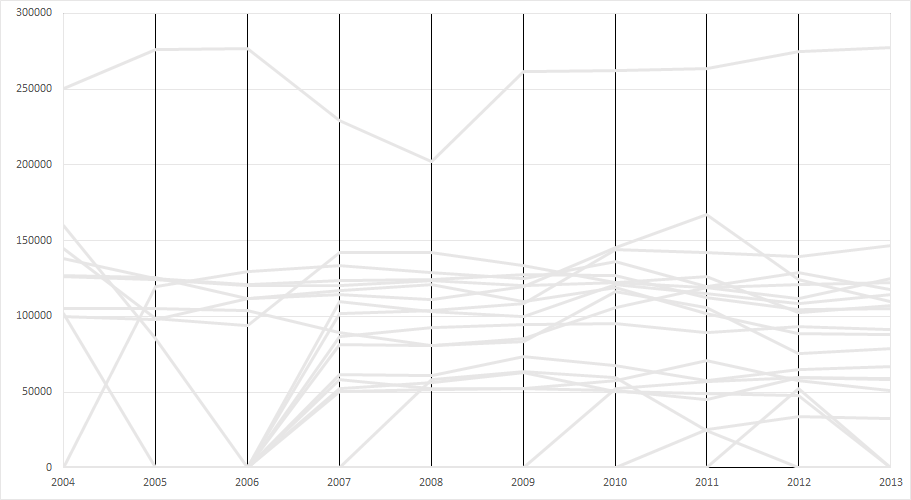
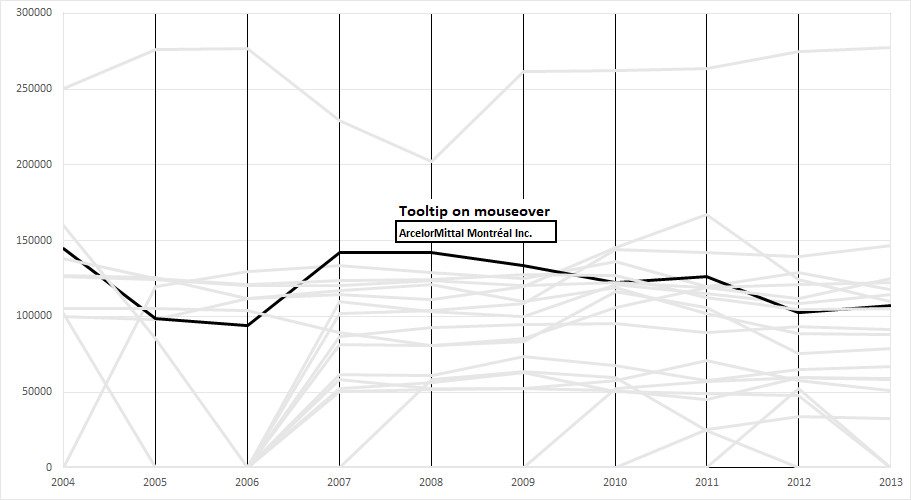
Tooltips

diff --git a/index.html b/index.html
@@ -65,6 +65,7 @@
 			<div class="inner">
 				<div class="vertical-center">
 					<h2>Line chart</h2>
+					<img src="img/linechart.png" class="mockupimg" style="width:70%">
 				</div>
 			</div>
 		</section>
@@ -73,6 +74,7 @@
 			<div class="inner">
 				<div class="vertical-center">
 					<h2>Map</h2>
+					<img src="img/map.png" class="mockupimg" style="width:70%">
 				</div>
 			</div>
 		</section>
